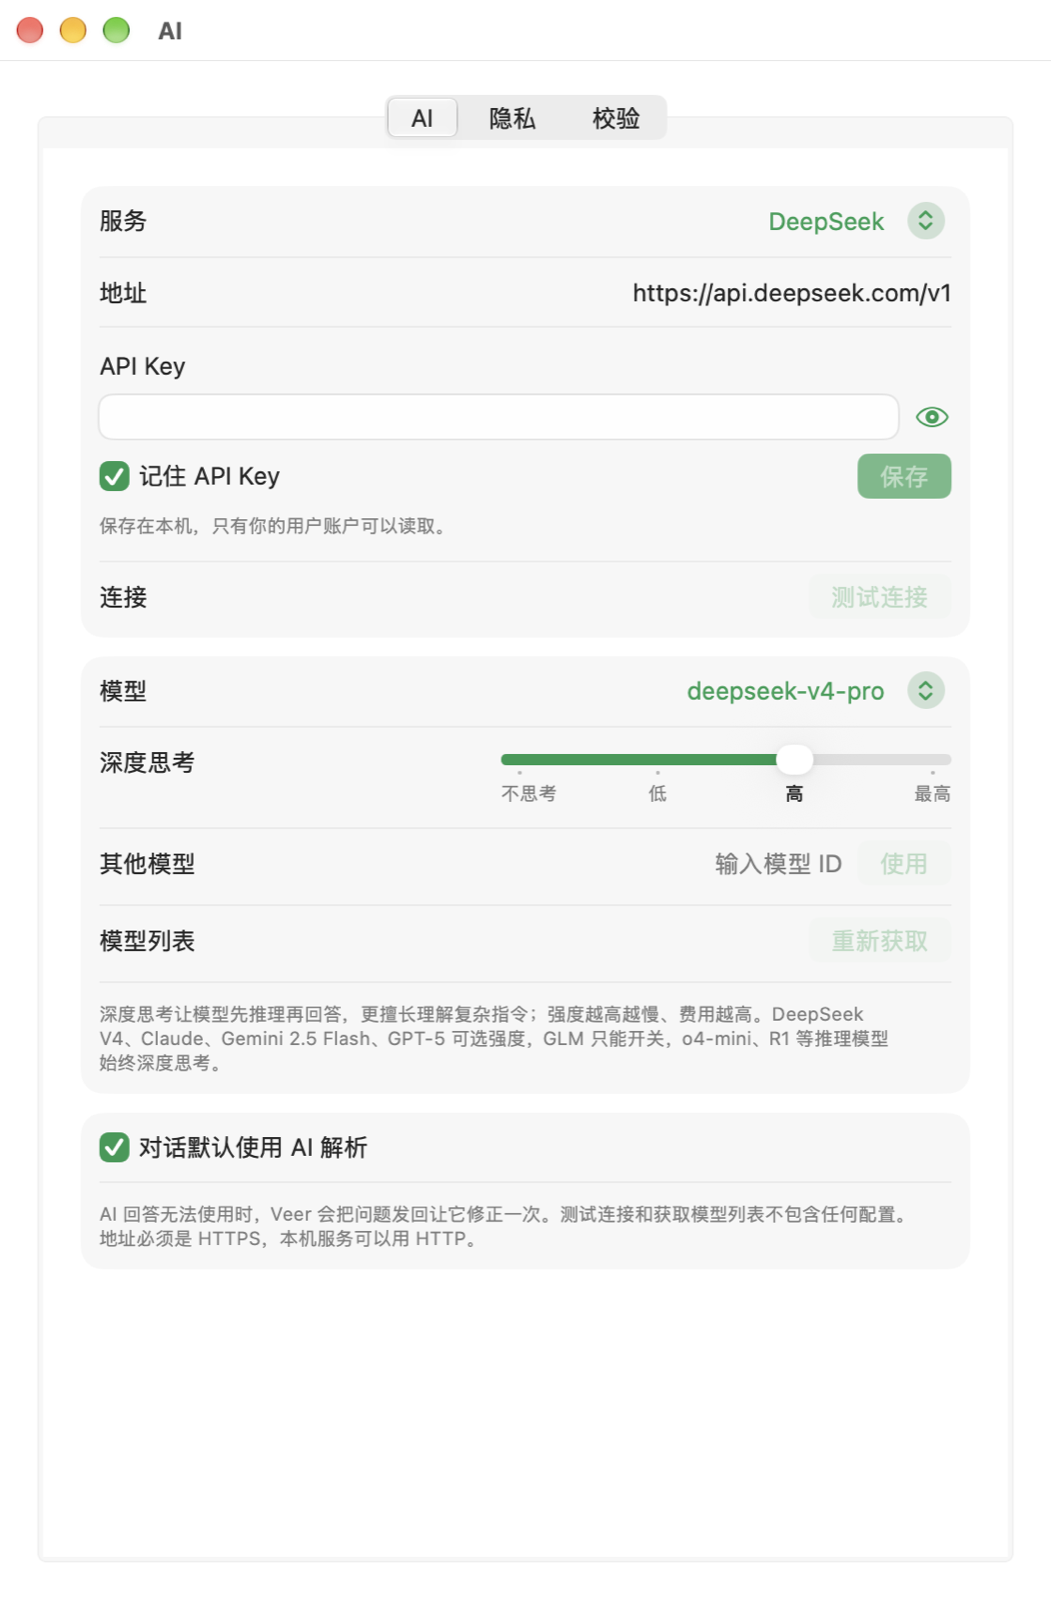
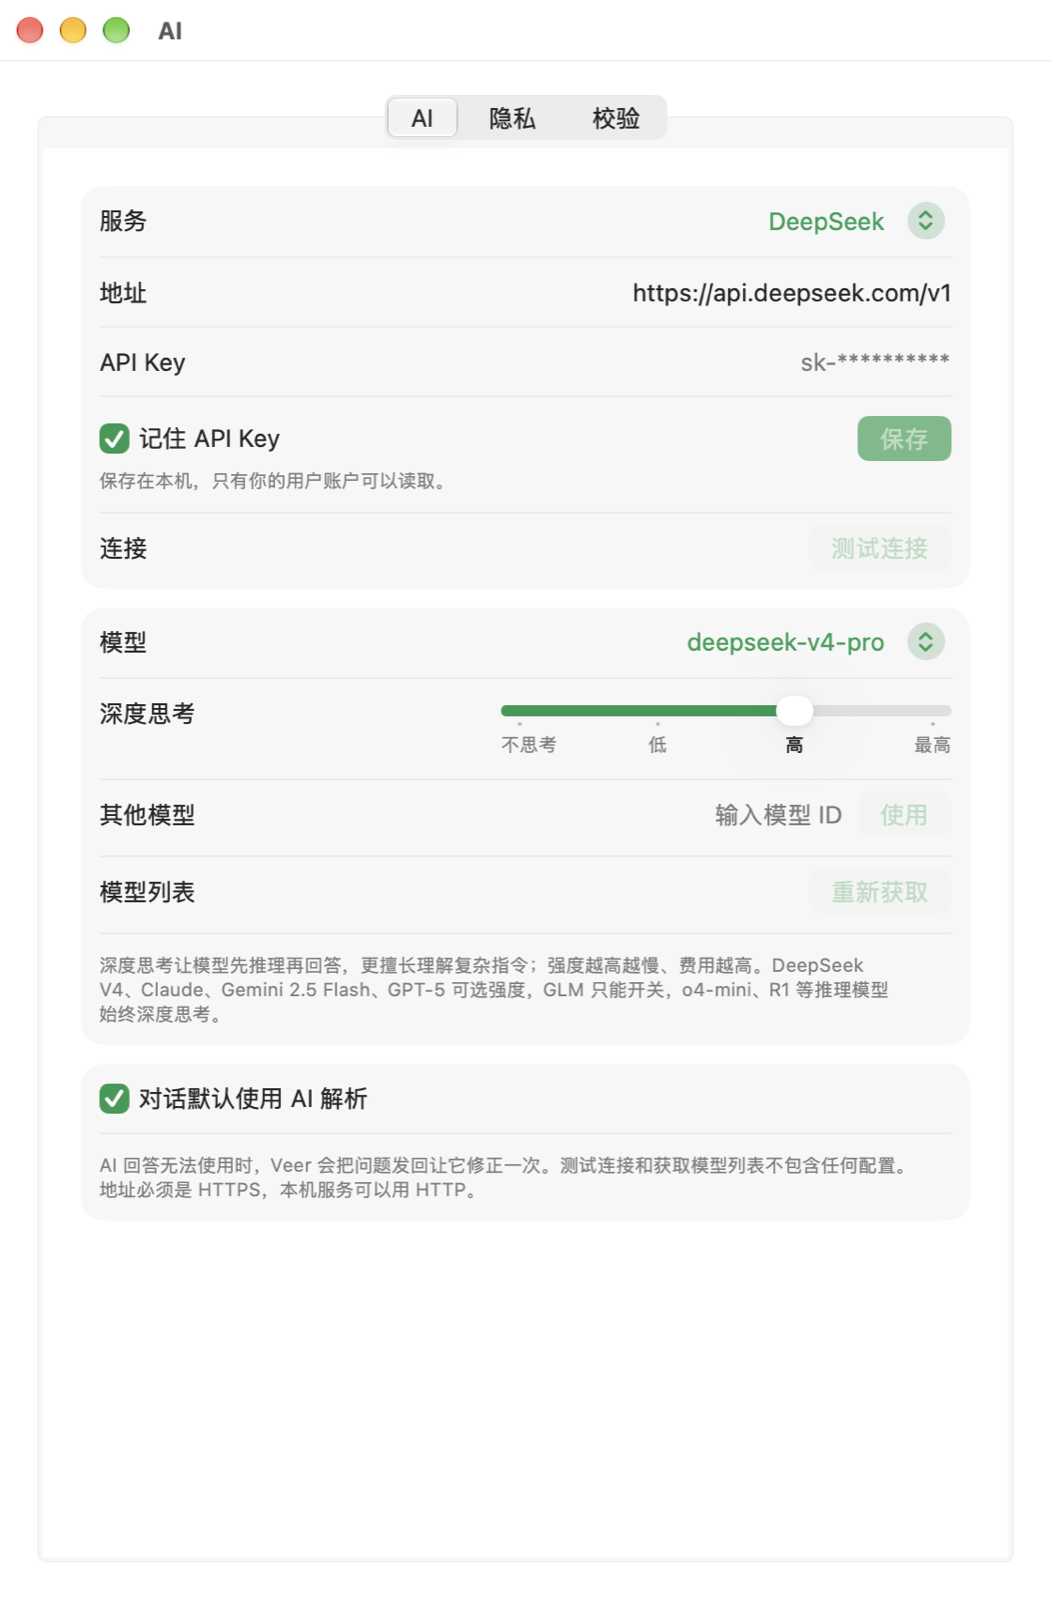
fix: API key field matches the other settings fields
- Plain form field like 地址, with the placeholder "sk-**********"; Return saves
- "Remember" and Save stay on the row below; spec and screenshots updated

Changed region(s): [[0.0913, 0.2188, 0.9134, 0.7812], [0.7612, 0.2188, 0.7916, 0.25]]

diff --git a/Sources/VeerEditorApp/Features/SettingsView.swift b/Sources/VeerEditorApp/Features/SettingsView.swift
@@ -151,45 +151,19 @@ struct AISettingsPane: View {
     }
 }
 
-/// Entering a key: a full-width field (with show/hide), then "remember" and Save on one line.
+/// Entering a key: a form field like 地址, then "remember" and Save on the next row.
 struct KeyEntryRow: View {
     let provider: String
     @Binding var key: String
     @Binding var remember: Bool
     let error: String?
     let save: () -> Void
-    @State private var revealed = false
-    @FocusState private var focused: Bool
 
     var body: some View {
-        VStack(alignment: .leading, spacing: Spacing.sm) {
-            Text("API Key")
-            HStack(spacing: Spacing.sm) {
-                Group {
-                    if revealed {
-                        TextField("API Key", text: $key, prompt: Text(""))
-                    } else {
-                        SecureField("API Key", text: $key, prompt: Text(""))
-                    }
-                }
-                .labelsHidden()
-                .textFieldStyle(.roundedBorder)
-                .controlSize(.large)
-                .font(Typography.code)
-                .focused($focused)
-                .onSubmit(save)
-                .accessibilityLabel("\(provider) 的 API Key")
-                Button { revealed.toggle(); focused = true } label: {
-                    Image(systemName: revealed ? "eye.slash" : "eye")
-                }
-                .buttonStyle(.borderless)
-                .help(revealed ? "隐藏 API Key" : "显示 API Key")
-                .accessibilityLabel(revealed ? "隐藏 API Key" : "显示 API Key")
-            }
-            if let error {
-                Label(error, systemImage: "exclamationmark.triangle.fill")
-                    .font(.caption).foregroundStyle(Color.statusFailure)
-            }
+        SecureField("API Key", text: $key, prompt: Text("sk-**********"))
+            .onSubmit(save)
+            .accessibilityLabel("\(provider) 的 API Key")
+        VStack(alignment: .leading, spacing: Spacing.xs) {
             HStack(spacing: Spacing.md) {
                 Toggle("记住 API Key", isOn: $remember)
                     .toggleStyle(.checkbox)
@@ -199,10 +173,13 @@ struct KeyEntryRow: View {
                     .tint(.veerAccent)
                     .disabled(key.trimmingCharacters(in: .whitespacesAndNewlines).isEmpty)
             }
+            if let error {
+                Label(error, systemImage: "exclamationmark.triangle.fill")
+                    .font(.caption).foregroundStyle(Color.statusFailure)
+            }
             Text(remember ? "保存在本机，只有你的用户账户可以读取。" : "只在本次运行有效，退出后需要重新填写。")
                 .font(.caption).foregroundStyle(.secondary)
         }
-        .padding(.vertical, Spacing.xxs)
     }
 }
 

diff --git a/docs/VEER_AI_EDITOR_SPEC_2026-10-17.md b/docs/VEER_AI_EDITOR_SPEC_2026-10-17.md
@@ -519,4 +519,4 @@ native/macos-editor/
 - 输入框左下角的菜单改为弹出面板：解析方式（AI / 本地解析）分段控件、当前服务的模型列表（模型多时可滚动）、深度思考滑块与当前档位、“AI 设置…”。未保存 API Key 时也可以选择模型和强度，面板会提示去设置填写 Key。
 - 设置 → AI 的“深度思考”同样使用滑块。
 - API Key 输入框去掉了占位文字。
-- API Key 填写区改为独立的一行：标题下方是通栏、带边框的输入框（等宽字体，右侧“显示 / 隐藏”按钮，回车即保存），下一行左侧“记住 API Key”、右侧“保存”主按钮，再下方说明保存位置（勾选时“保存在本机，只有你的用户账户可以读取”，不勾选时“只在本次运行有效”）。错误信息显示在输入框下方。
+- API Key 输入框与“地址”等文本框样式一致（标签在左、输入在右），占位文字 `sk-**********`，回车即保存。下一行左侧“记住 API Key”、右侧“保存”主按钮，再下方说明保存位置（勾选时“保存在本机，只有你的用户账户可以读取”，不勾选时“只在本次运行有效”）。错误信息显示在按钮下方。
